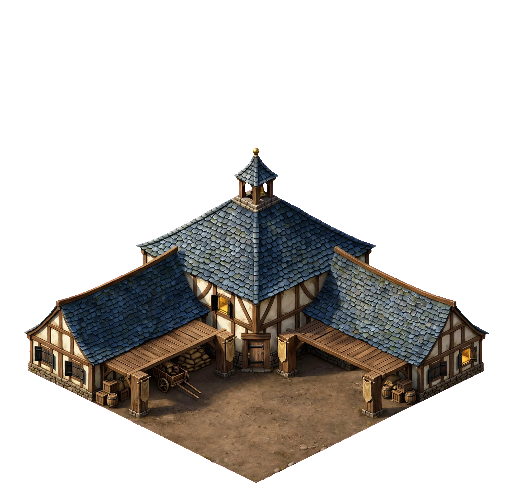
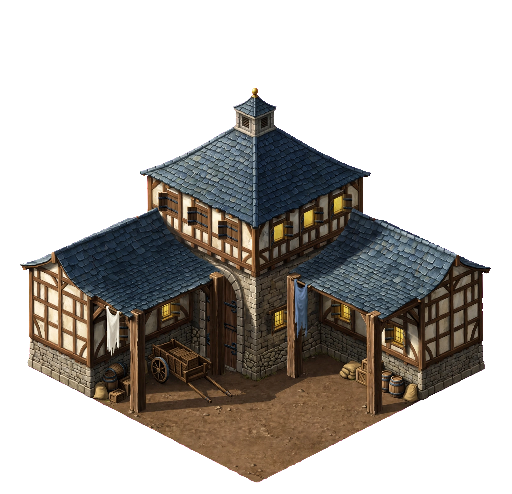
Publish TC horseshoe HEIGHT art (main bd003ba): town-center.png + buildings README provenance

diff --git a/assets-original/buildings/README.md b/assets-original/buildings/README.md
@@ -122,3 +122,29 @@ front gap, scout beside the TC) live in the art staging area; the
 corrected winning prompt is recorded in `PROMPTS.md` ("TOWN CENTER
 HORSESHOE — winning prompt"). The lock-ring version is backed up as
 `town-center-lockring-backup.png` in the staging area.
+
+## Town Center — horseshoe HEIGHT iteration (2026-10-19, iteration 3)
+
+`town-center.png` replaced again (same 512×494 canvas, same draw
+contract — drop-in, no renderer change). Claudio's review of the
+iteration-2 judge sheet: the villager still read **too big against
+the building** — "make it TALLER so the villager sits at the right
+height; the problem is the height; taller still fits". The fix is
+vertical only: same horseshoe plan, same 4×4 base on the canonical
+diamond, the building grows UP the canvas. The blockout was rebuilt
+with raised storeys (`tc_blockout4.py`: hall eaves 1.95 z, hip apex
+2.95, turret apex 3.15, canopies raised for headroom, and the hall
+door drawn as a stone **arch gateway** — the generator paints
+furniture-scale doors ~0.3–0.6× a villager no matter the slab, but
+an arch is architecture and holds its size). Measured on the final
+fitted art against the 73px game-scale villager (winner R, judged
+on `tc-lock3-judge.png` with a villager at the door, a villager
+under the canopy, a villager entering the open front, and a mounted
+scout beside the TC): **door (gateway) 1.29×, canopy clearance
+1.39×, hall eaves 1.86×, hall ridge 2.40×, bell turret 3.06×** —
+against iteration 2's door 0.31× / ridge 1.93× / turret 2.23×, the
+villager now sits at the right height at every feature. The
+iteration-2 horseshoe is backed up as
+`town-center-horseshoe-v1-backup.png` in the staging area; the
+winning prompt and full measurement table are recorded in
+`PROMPTS.md` ("TOWN CENTER HORSESHOE — HEIGHT").
